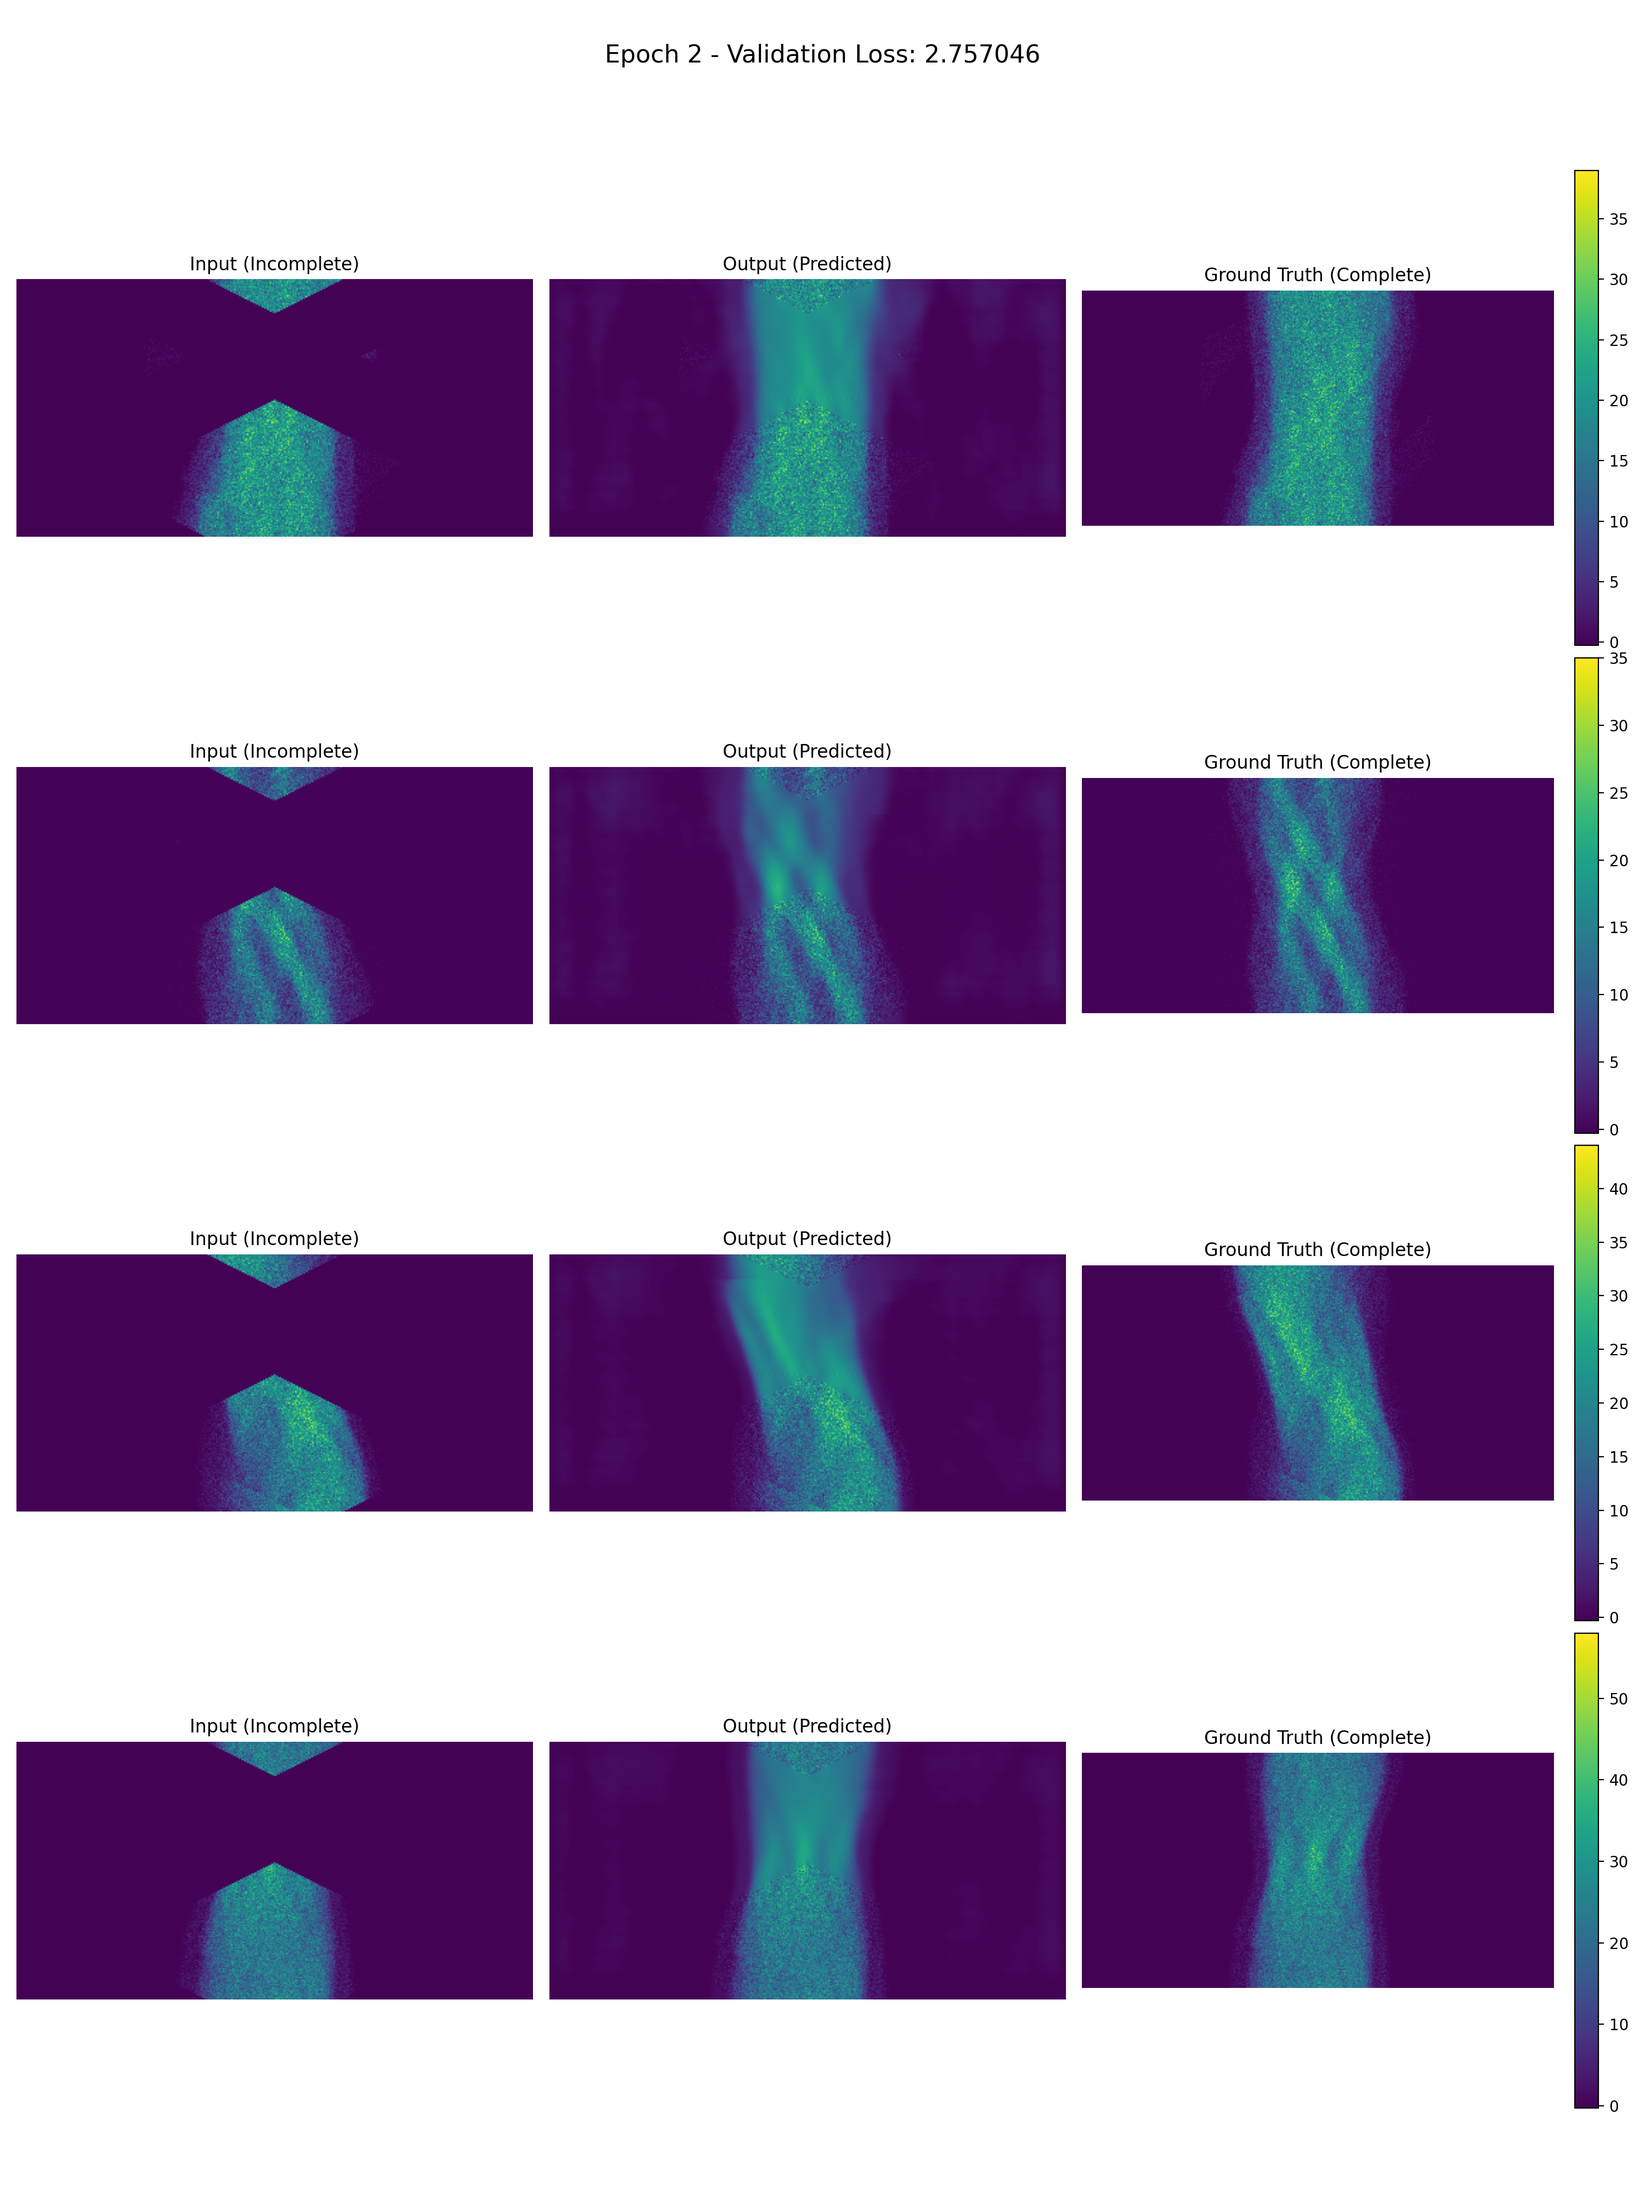
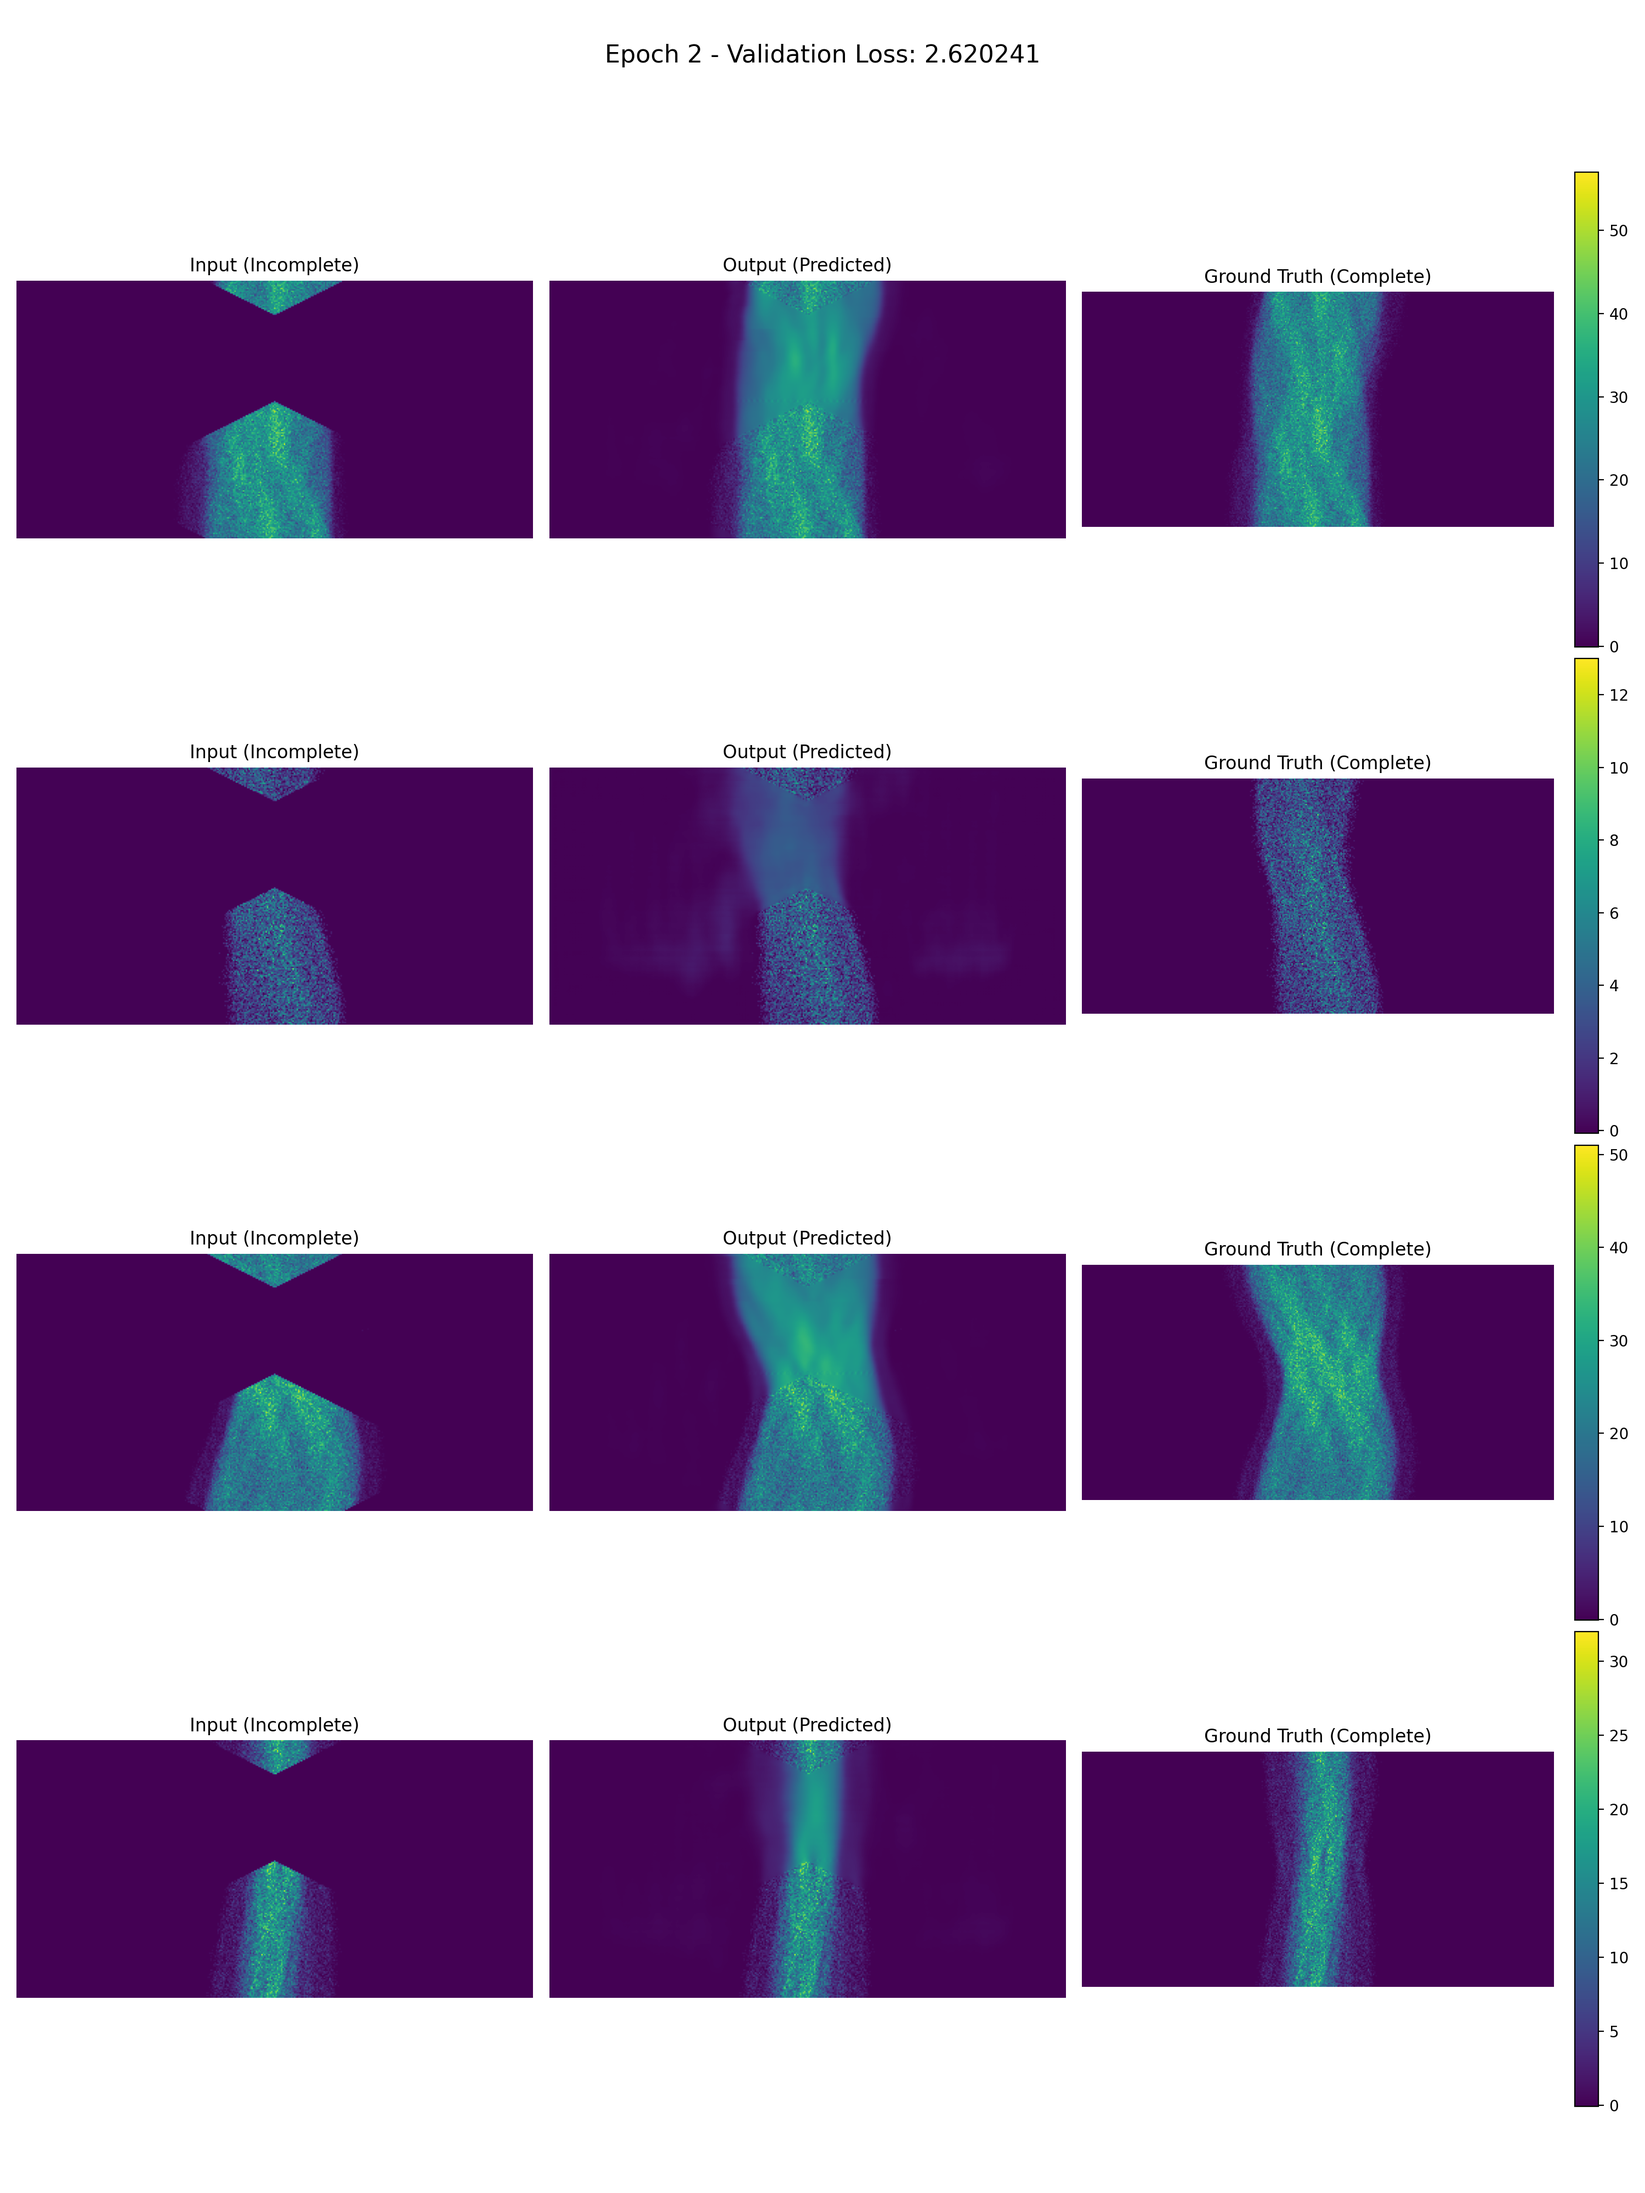
solve the problem of uneven size

diff --git a/evaluation.py b/evaluation.py
@@ -4,7 +4,7 @@ import matplotlib.pyplot as plt
 from skimage.metrics import structural_similarity as ssim
 from skimage.metrics import peak_signal_noise_ratio as psnr
 
-def evaluate_model(model, test_loader, device='cuda', num_samples=5):
+def evaluate_model(model, test_loader, device='cuda', num_samples=5, output_dir="."):
     model.eval()
     test_mse = 0.0
     test_psnr = 0.0
@@ -51,7 +51,7 @@ def evaluate_model(model, test_loader, device='cuda', num_samples=5):
     print(f"Test Results: MSE: {avg_mse:.6f}, PSNR: {avg_psnr:.4f} dB, SSIM: {avg_ssim:.4f}")
     
     # Visualize samples
-    fig, axes = plt.subplots(num_samples, 3, figsize=(12, 4*num_samples))
+    fig, axes = plt.subplots(num_samples, 3, figsize=(12, 3*num_samples))
     
     for i, (incomplete, output, complete) in enumerate(samples):
         axes[i, 0].imshow(incomplete, cmap='viridis')
@@ -67,7 +67,7 @@ def evaluate_model(model, test_loader, device='cuda', num_samples=5):
         axes[i, 2].axis('off')
     
     plt.tight_layout()
-    plt.savefig('sinogram_results.png', dpi=300)
+    plt.savefig(f'{output_dir}/sinogram_results.pdf', dpi=600)
     plt.close()
     
     return avg_mse, avg_psnr, avg_ssim

diff --git a/training.py b/training.py
@@ -231,7 +231,7 @@ def train_model(model, train_loader, test_loader, num_epochs=50, start_epoch=0, 
 def save_visualizations(incomplete, outputs, complete, filepath, title="Visualization"):
     """Helper function to save visualizations"""
     # Create a figure to visualize results
-    fig, axes = plt.subplots(min(4, len(incomplete)), 3, figsize=(15, 20))
+    fig, axes = plt.subplots(min(4, len(incomplete)), 3, figsize=(16, 15), gridspec_kw={"width_ratios": [1, 1, 1.0675]})
     
     # Handle the case where there's only one sample
     if min(4, len(incomplete)) == 1:
@@ -263,12 +263,12 @@ def save_visualizations(incomplete, outputs, complete, filepath, title="Visualiz
         axes[i, 2].axis('off')
         
         # Add a colorbar to the last image in each row
-        plt.colorbar(im, ax=axes[i, 2], fraction=0.046, pad=0.04)
+        plt.colorbar(im, ax=axes[i, 2], fraction=0.04, pad=0.02)
     
     # Add title information
     plt.suptitle(title, fontsize=16)
     plt.tight_layout(rect=[0, 0.03, 1, 0.95])
     
     # Save the figure
-    plt.savefig(filepath, dpi=200)
+    plt.savefig(filepath, dpi=600)
     plt.close(fig)
